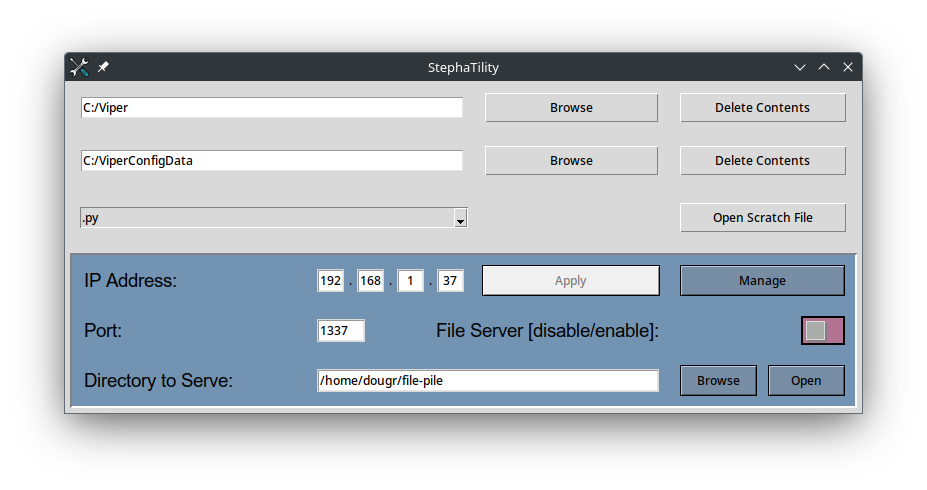
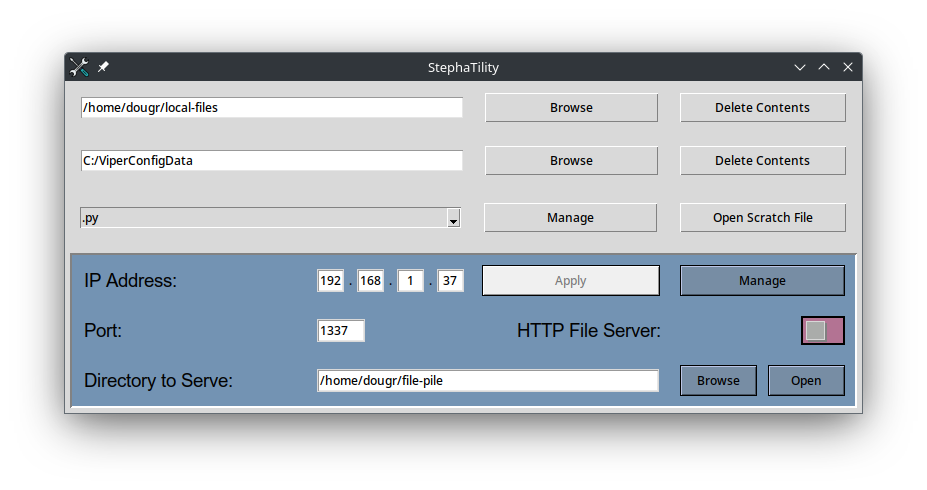
extensions can now be managed.

diff --git a/src/gui/containers/tempfile_generator.py b/src/gui/containers/tempfile_generator.py
@@ -5,10 +5,13 @@ import sys
 import tempfile
 
 import tkinter as tk
-from tkinter import ttk
+from tkinter import ttk, messagebox
 from typing import List
 
+from src.constants import ASSETS_DIR
 from src.application_config.logger import app_logger
+
+from src.gui.containers.frames.item_manager import ItemManager
 
 
 class TempFileGenerator(tk.Frame):
@@ -21,8 +24,9 @@ class TempFileGenerator(tk.Frame):
         # Frame - TempFile Generator
         self.parent = parent
         self.grid(sticky=tk.EW, padx=10, pady=10)
-        self.grid_columnconfigure(0, weight=1)
-        self.grid_columnconfigure(1, weight=1)
+        for i in range(4):
+            self.grid_rowconfigure(i, weight=1)
+            self.grid_columnconfigure(i, weight=1)
 
         # Dropdown - File Extension Select
         self.current_file_extension = tk.StringVar()
@@ -31,10 +35,19 @@ class TempFileGenerator(tk.Frame):
             textvariable=self.current_file_extension,
             values=self.file_extensions,
             state='readonly',
-            width=53
+            width=52
         )
-        self.file_extension_picker.grid(column=0, row=0, padx=10, pady=10, sticky=tk.W)
-        self.file_extension_picker.set(self.file_extensions[0])         # default value
+        self.file_extension_picker.grid(column=0, columnspan=2, row=0, padx=10, pady=10, sticky=tk.W)
+        self.file_extension_picker.set(self.file_extensions[0])
+
+        # Button - Manage
+        self.manage = tk.Button(
+            self,
+            text="Manage",
+            command=self._on_manage_action,
+            width=21
+        )
+        self.manage.grid(column=2, row=0, padx=10, pady=10, sticky=tk.E)
 
         # Button - Create and Open
         self.create_open_button = tk.Button(
@@ -43,20 +56,32 @@ class TempFileGenerator(tk.Frame):
             command=self._create_and_open_scratch_file,
             width=20
         )
-        self.create_open_button.grid(column=1, row=0, padx=10, pady=10, sticky=tk.E)
+        self.create_open_button.grid(column=3, row=0, padx=10, pady=10, sticky=tk.E)
+
+    def _on_manage_action(self):
+        icon_path = str(ASSETS_DIR / "file.png")
+        item_manager = ItemManager(self, item_type="Extension", icon=icon_path, file_extensions=self.file_extensions)
+        item_manager.set_items(self.file_extensions)
+
+        self.wait_window(item_manager)
+        self.file_extension_picker.config(values=self.file_extensions)
+        self.file_extension_picker.set(self.file_extensions[0])
+
+
 
     def _create_and_open_scratch_file(self):
         try:
             temp_file = tempfile.NamedTemporaryFile(delete=False, suffix=self.current_file_extension.get())
-            temp_file.close()  # Close the file so it can be opened by another application
+            temp_file.close()
 
             if os.name == 'nt':
-                os.startfile(temp_file.name)  # Works on Windows
+                os.startfile(temp_file.name)
             else:
                 opener = "open" if sys.platform == "darwin" else "xdg-open"
-                subprocess.call([opener, temp_file.name])  # Works on macOS and Linux
+                subprocess.call([opener, temp_file.name])
         except Exception as e:
             app_logger.error(f"Failed to create or open scratch file: {e}")
+            messagebox.showerror("Error", f"Failed to create or open scratch file: {e}")
 
 def main():
     root = tk.Tk()
@@ -64,7 +89,6 @@ def main():
     app = TempFileGenerator(root)
     app.pack(fill='both', expand=True)
 
-    # Set a minimum window size if desired
     root.minsize(400, 50)
 
     root.mainloop()

diff --git a/src/gui/containers/directory_cleaner.py b/src/gui/containers/directory_cleaner.py
@@ -54,33 +54,27 @@ class DirectoryCleaner(tk.Frame):
     def _delete_contents(self) -> None:
         folder = self.path_entry.get()
 
-        # Check if the directory exists
         if not os.path.isdir(folder):
             app_logger.debug("The specified directory doesn't exist: %s", folder)
             messagebox.showerror("Error", "The specified directory does not exist.")
             return
 
-        # Check if user is sure
         if not messagebox.askyesno("Confirm", f"Are you sure you want to delete all contents in {folder}?"):
             return
 
-        # Iterate through each item in the directory
         for item in os.listdir(folder):
             item_path = os.path.join(folder, item)
             try:
-
                 if os.path.isfile(item_path) or os.path.islink(item_path):
                     os.remove(item_path)
-
                 elif os.path.isdir(item_path):
                     shutil.rmtree(item_path)
-
                 app_logger.debug("Deleted %s", item_path)
 
             except Exception as e:
-                app_logger.debug("Failed to delete: %s", item_path, e)
+                app_logger.debug("Failed to delete: %s", item_path, exc_info=True)
                 messagebox.showerror("Error", f"Failed to delete {item_path}: {e}")
-                continue                                         # Continue deleting other items
+                continue
 
         app_logger.info("Contents deleted successfully: %s", folder)
         messagebox.showinfo("Success", "Contents deleted successfully.")
@@ -91,7 +85,7 @@ def main():
     root.title("Directory Cleaner")
 
     default_path = "/path/to/initial/directory"
-    app = DirectoryCleaner(root, default_path)
+    app = DirectoryCleaner(root, 0, default_path)
     app.pack(fill='both', expand=True)
 
     root.mainloop()

diff --git a/src/gui/containers/frames/item_manager.py b/src/gui/containers/frames/item_manager.py
@@ -1,6 +1,7 @@
 
 import tkinter as tk
 from tkinter import ttk, messagebox
+from typing import List
 
 from src.constants import Colors, ASSETS_DIR
 from src.gui.containers.widgets.draggable_treeview import DraggableTreeview
@@ -8,11 +9,13 @@ from src.gui.containers.widgets.blue_button import BlueButton
 
 
 class ItemManager(tk.Toplevel):
-    def __init__(self, parent=None, item_type="Item", icon=None, **kwargs):
+    def __init__(self, parent=None, item_type="Item", icon=None, file_extensions: List[str] = None, **kwargs):
         super().__init__(parent, borderwidth=2, relief="raised", bg=Colors.ORBITAL, **kwargs)
         self.item_type = item_type
+        self.icon = icon
+        self.file_extensions = file_extensions
         self.title(f"{item_type} Manager")
-        self.geometry("500x500")
+        self.geometry("400x500")
         self.resizable(True, True)
         self.transient(parent)
         self.grab_set()
@@ -24,6 +27,8 @@ class ItemManager(tk.Toplevel):
 
         self._create_widgets()
         self._update_buttons_state()
+
+        self.protocol("WM_DELETE_WINDOW", self._on_close)
 
     def _create_widgets(self):
         self.grid_columnconfigure(0, weight=1)
@@ -174,6 +179,14 @@ class ItemManager(tk.Toplevel):
         tags = ('even',) if len(self.tree.get_children()) % 2 == 0 else ('odd',)
         self.tree.insert("", tk.END, values=(item,), tags=tags)
         self._update_buttons_state()
+
+    def _on_close(self):
+        if self.get_items():
+            self.file_extensions[:] = self.get_items()
+        else:
+            self.file_extensions.clear()
+            self.file_extensions.append(".txt")
+        self.destroy()
 
 
 class _DemoApp(tk.Tk):

diff --git a/src/gui/containers/widgets/draggable_treeview.py b/src/gui/containers/widgets/draggable_treeview.py
@@ -47,8 +47,6 @@ class DraggableTreeview(ttk.Treeview):
         else:
             self._stop_scrolling()
 
-        self._update_buttons_state()
-
     def _stop_dragging(self, event=None):
         self.dragging = False
         self._stop_scrolling()
@@ -73,8 +71,5 @@ class DraggableTreeview(ttk.Treeview):
             self.item(item, tags=tags)
 
     def _on_select(self, event):
-        self._update_buttons_state()
-
-    def _update_buttons_state(self):
-        if hasattr(self.master.master, 'update_buttons_state'):
-            self.master.master.update_buttons_state()
+        if hasattr(self.master.master, '_update_buttons_state'):
+            self.master.master._update_buttons_state()

diff --git a/README.md b/README.md
@@ -1,2 +1,3 @@
 ![1](assets/previews/main_window.png)
 ![2](assets/previews/manage_ip_settings.png)
+![3](assets/previews/manage_extensions.png)
